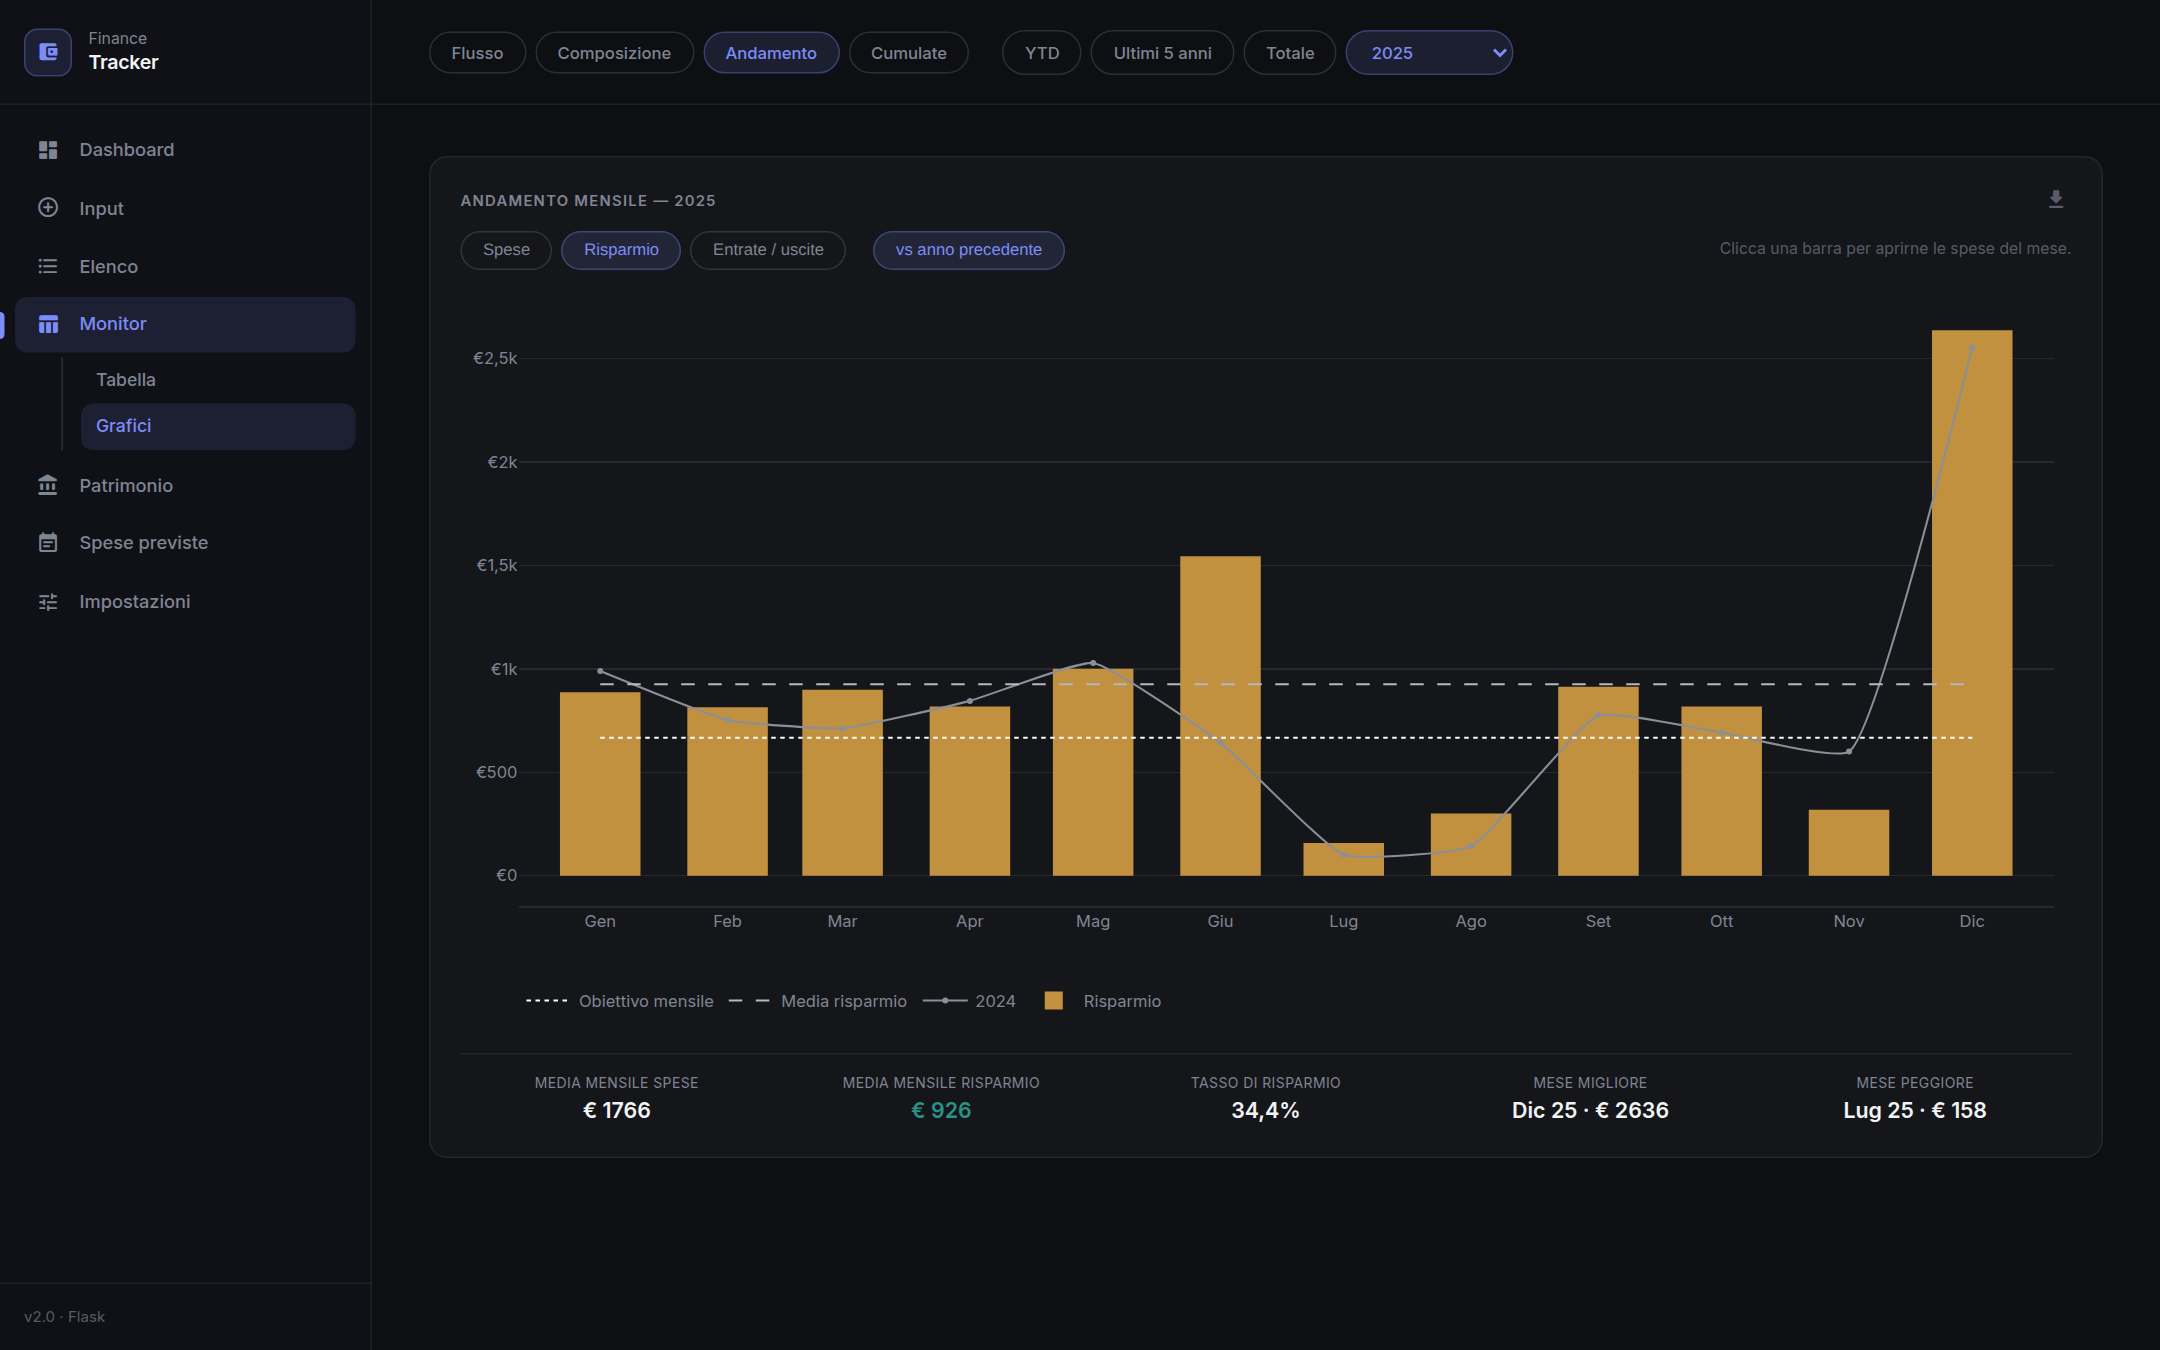
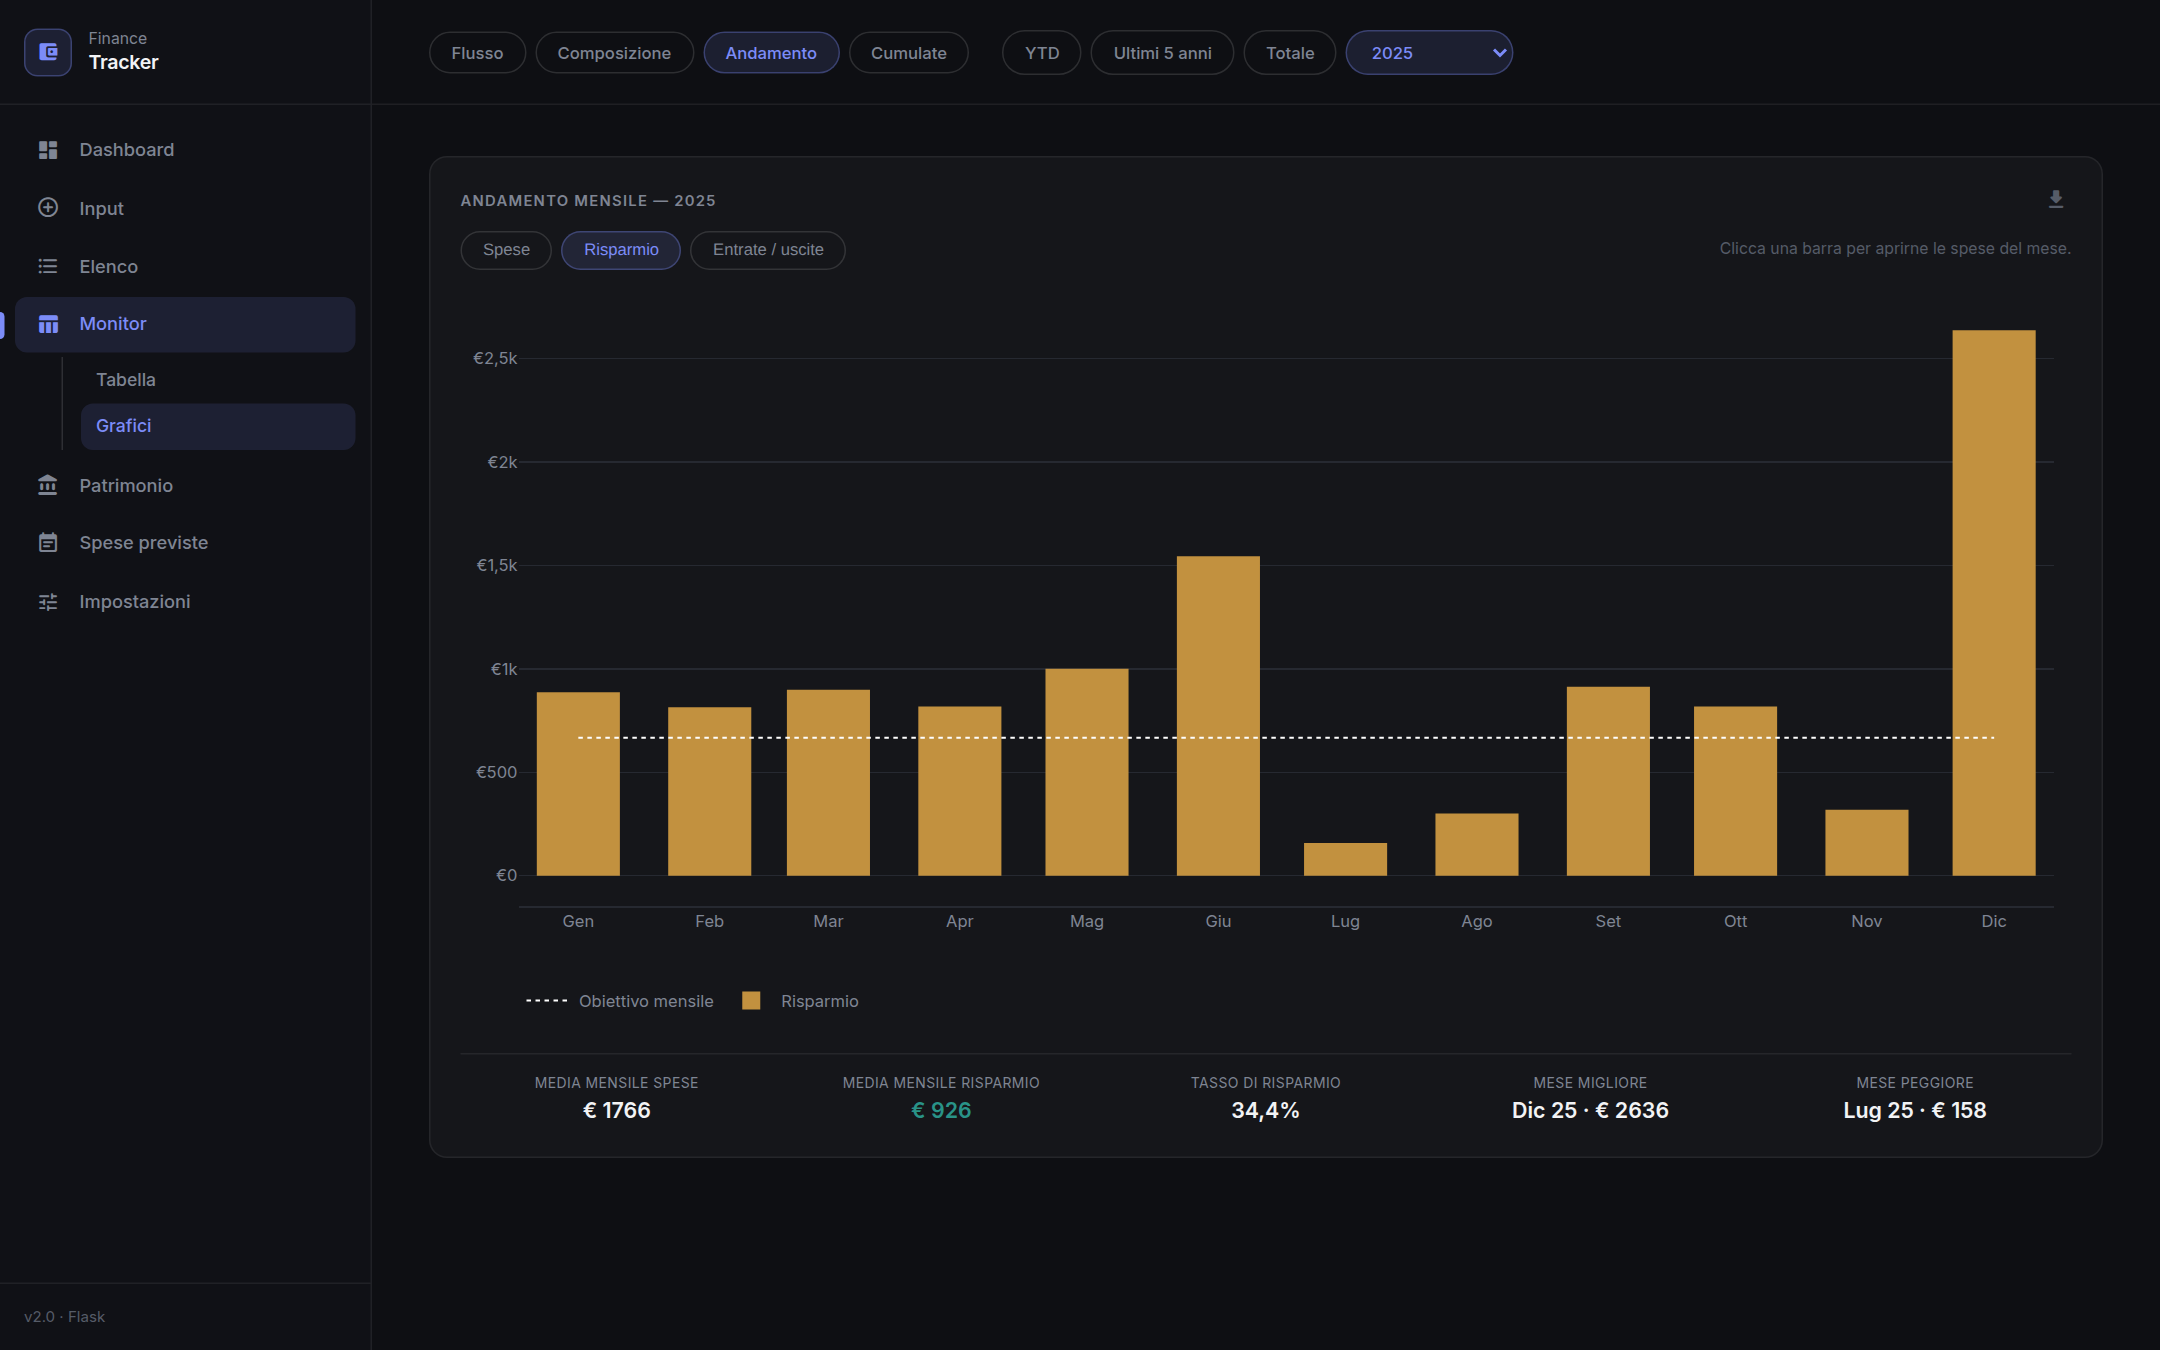
Grafici › Andamento: tolti confronto con l'anno precedente e linea della media; in Entrate/uscite niente linea del risparmio

diff --git a/templates/grafici.html b/templates/grafici.html
@@ -60,7 +60,6 @@
             <button type="button" class="period-btn" data-v="risparmio">Risparmio</button>
             <button type="button" class="period-btn" data-v="flusso">Entrate / uscite</button>
         </div>
-        <button type="button" class="period-btn cmp-btn" id="cmp-an" title="Sovrappone l'anno precedente (solo Spese e Risparmio)">vs anno precedente</button>
         <span class="g-hint" style="margin:0 0 0 auto">Clicca una barra per aprirne le spese del mese.</span>
     </div>
     <div id="chart-g-an" class="g-chart"></div>
@@ -116,7 +115,7 @@ const URL_CUM = '{{ url_for("grafici.cumulata") }}', URL_ELENCO = '{{ url_for("e
 
 // ── Stato: vive nell'indirizzo (condivisibile, funziona il "indietro") e si ricorda l'ultima vista ──
 const S = { vista: 'flusso', periodo: 'ytd', lastYear: 'ytd', lastRange: 'all',
-            an: 'spese', cmp: false, cu: { view: 'tot', cat: '', cmp: '' } };
+            an: 'spese', cu: { view: 'tot', cat: '', cmp: '' } };
 const yearOf = p => p === 'ytd' ? CUR : (/^\d{4}$/.test(p) ? +p : null);
 const validPeriodo = p => p === 'ytd' || p === '5y' || p === 'all' || (yearOf(p) !== null && YEARS.includes(+p));
 const normPeriodo = p => (validPeriodo(p) ? (p === String(CUR) ? 'ytd' : p) : 'ytd');
@@ -133,7 +132,6 @@ function readUrl() {
         S.periodo = normPeriodo(qs.get('periodo') || 'ytd');
     }
     S.an = ['risparmio', 'flusso'].includes(qs.get('sub')) ? qs.get('sub') : 'spese';
-    S.cmp = qs.get('conf') === '1';
     S.cu = { view: ['ess', 'ext', 'sav'].includes(qs.get('ct')) ? qs.get('ct') : 'tot', cat: qs.get('cat') || '', cmp: qs.get('cc') || '' };
     normalize();
 }
@@ -145,7 +143,6 @@ function normalize() {
 function writeUrl(push) {
     const p = new URLSearchParams({ vista: S.vista, periodo: S.periodo });
     if (S.vista === 'andamento' && S.an !== 'spese') p.set('sub', S.an);
-    if (S.vista === 'andamento' && S.cmp) p.set('conf', '1');
     if (S.vista === 'cumulate') {
         if (S.cu.view !== 'tot') p.set('ct', S.cu.view);
         if (S.cu.cat) p.set('cat', S.cu.cat);
@@ -174,7 +171,6 @@ function syncControls() {
     document.querySelectorAll('.gpanel').forEach(p => { p.style.display = p.id === 'gp-' + S.vista ? '' : 'none'; });
     setActive('an-sub', S.an); setActive('cu-sub', S.cu.cat ? '' : S.cu.view);
     $('cu-cat').value = S.cu.cat;
-    $('cmp-an').classList.toggle('active', S.cmp);
     fillCuCmp();
 }
 function fillCuCmp() {
@@ -194,7 +190,6 @@ function step(d) {
 document.querySelectorAll('#g-range [data-range]').forEach(b => b.addEventListener('click', () => setState({ periodo: b.dataset.range })));
 document.querySelectorAll('.gv').forEach(b => b.addEventListener('click', () => setState({ vista: b.dataset.v })));
 document.querySelectorAll('#an-sub .period-btn').forEach(b => b.addEventListener('click', () => setState({ an: b.dataset.v }, false)));
-$('cmp-an').addEventListener('click', () => setState({ cmp: !S.cmp }, false));
 document.querySelectorAll('#cu-sub .period-btn').forEach(b => b.addEventListener('click', () => setState({ cu: { ...S.cu, view: b.dataset.v, cat: '' } }, false)));
 $('cu-cat').addEventListener('change', e => setState({ cu: { ...S.cu, cat: e.target.value } }, false));
 $('cu-cmp').addEventListener('change', e => setState({ cu: { ...S.cu, cmp: e.target.value } }, false));
@@ -275,42 +270,31 @@ RENDER.composizione = async stale => {
 
 // ── Andamento mensile (con confronto e obiettivo per anno) ───────────────────
 RENDER.andamento = async stale => {
-    const d = await load('andamento', { conf: S.cmp ? '1' : '0' }); if (stale()) return;
-    $('cmp-an').disabled = !d.can_compare || S.an === 'flusso';
-    $('cmp-an').title = !d.can_compare ? 'Il confronto vale per un anno singolo' : (S.an === 'flusso' ? 'Il confronto vale per Spese e Risparmio' : "Sovrappone l'anno precedente");
+    const d = await load('andamento'); if (stale()) return;
     $('t-andamento').textContent = 'Andamento mensile — ' + d.label;
     const n = d.labels.length, x = d.labels.map(l => l + '-01');
     const out = d.income.map((_, i) => d.essential[i] + d.extra[i]), sav = d.income.map((v, i) => v - out[i]);
     const rate = d.income.map((v, i) => v > 0 ? sav[i] / v * 100 : null);
     const active = x.map((_, i) => d.income[i] > 0 || out[i] > 0);
     const sum = a => a.reduce((s, v, i) => s + (active[i] ? v : 0), 0), cnt = active.filter(Boolean).length || 1, mean = a => sum(a) / cnt;
-    const flat = (name, v, dash, color) => ({ type: 'scatter', mode: 'lines', name, x, y: x.map(() => v), line: { color, width: 1.4, dash },
-                                              hovertemplate: '€ %{y:.0f}<extra>' + name + '</extra>' });
     const rateTrace = { type: 'scatter', mode: 'lines', name: 'Tasso di risparmio', x, y: x.map(() => 0), line: { width: 0 }, showlegend: false,
                         customdata: rate.map(r => r == null ? '—' : r.toFixed(1).replace('.', ',') + '%'), hovertemplate: '%{customdata}<extra>Tasso di risparmio</extra>' };
-    // Anno precedente: stesso mese dell'anno prima, in grigio, allineato ai mesi mostrati
-    const prevSeries = f => d.prev && x.map((_, i) => f(+d.labels[i].slice(5) - 1));
-    const prevTrace = ys => d.prev ? { type: 'scatter', mode: 'lines+markers', name: String(d.prev.year), x, y: ys, marker: { size: 4 },
-                                       line: { color: '#8a8f99', width: 1.4, shape: 'spline', smoothing: 0.4 }, hovertemplate: '€ %{y:.0f}<extra>' + d.prev.year + '</extra>' } : null;
     let traces, barmode = 'stack';
     if (S.an === 'spese') {
         traces = [{ type: 'bar', name: 'Necessità', x, y: d.essential, marker: { color: _P.essential }, hovertemplate: '€ %{y:.0f}<extra>Necessità</extra>' },
                   { type: 'bar', name: 'Extra', x, y: d.extra, marker: { color: _P.extra }, hovertemplate: '€ %{y:.0f}<extra>Extra</extra>' },
-                  flat('Media spese', mean(out), 'dash', '#b4b8c2'), rateTrace];
-        const pt = prevTrace(prevSeries(i => d.prev.essential[i] + d.prev.extra[i])); if (pt) traces.splice(2, 0, pt);
+                  rateTrace];
     } else if (S.an === 'risparmio') {
         // Obiettivo mensile: un valore per ANNO (i budget cambiano), a gradini; vuoto dove non c'è budget
         const goal = { type: 'scatter', mode: 'lines', name: 'Obiettivo mensile', x, y: d.goal.map(g => g > 0 ? g : null),
                        line: { color: '#ffffff', width: 1.4, dash: 'dot', shape: 'hv' }, connectgaps: false, hovertemplate: '€ %{y:.0f}<extra>Obiettivo mensile</extra>' };
         traces = [{ type: 'bar', name: 'Risparmio', x, y: sav, marker: { color: sav.map(v => v >= 0 ? _P.savings : _P.expense) }, hovertemplate: '€ %{y:.0f}<extra>Risparmio</extra>' },
-                  flat('Media risparmio', mean(sav), 'dash', '#b4b8c2'), goal, rateTrace];
-        const pt = prevTrace(prevSeries(i => d.prev.income[i] - d.prev.essential[i] - d.prev.extra[i])); if (pt) traces.splice(1, 0, pt);
+                  goal, rateTrace];
     } else {
         barmode = 'group';
         traces = [{ type: 'bar', name: 'Entrate', x, y: d.income, marker: { color: _P.income }, hovertemplate: '€ %{y:.0f}<extra>Entrate</extra>' },
                   { type: 'bar', name: 'Uscite', x, y: out, marker: { color: _P.expense }, hovertemplate: '€ %{y:.0f}<extra>Uscite</extra>' },
-                  { type: 'scatter', mode: 'lines+markers', name: 'Risparmio', x, y: sav, line: { color: _P.savings, width: 2, shape: 'spline', smoothing: 0.4 },
-                    marker: { size: 5 }, hovertemplate: '€ %{y:.0f}<extra>Risparmio</extra>' }, rateTrace];
+                  rateTrace];
     }
     const long = n > 36, mid = n > 14;
     const gd = await Plotly.react('chart-g-an', traces, {

diff --git a/blueprints/grafici.py b/blueprints/grafici.py
@@ -199,14 +199,7 @@ def dati(view):
                        extra=[round(ext_m.get(m, 0), 2) for m in months],
                        # obiettivo mensile di risparmio dell'ANNO di ciascun mese (i budget cambiano per anno)
                        goal=[round(budget_for(conn, int(m[:4]), 'savings') / 12, 2) for m in months],
-                       can_compare=bool(per['year']), prev=None)
-            if request.args.get('conf') == '1' and per['year']:
-                py = per['year'] - 1
-                pi, pe, px = monthly(f"{py}-01-01", f"{py}-12-31")
-                pm = [f"{py}-{n:02d}" for n in range(1, 13)]
-                out['prev'] = {'year': py, 'income': [round(pi.get(m, 0), 2) for m in pm],
-                               'essential': [round(pe.get(m, 0), 2) for m in pm],
-                               'extra': [round(px.get(m, 0), 2) for m in pm]}
+                       )
 
         # cumulate: i dati arrivano da /grafici/cumulata.json (un anno alla volta)
 

diff --git a/scripts/screenshots.py b/scripts/screenshots.py
@@ -40,7 +40,7 @@ SHOTS = [
     ('charts-composition', '/grafici?vista=composizione&periodo=all', 1440, 820, []),
     ('charts-trend', '/grafici?vista=andamento&periodo=all', 1440, 900, []),
     ('charts-cumulative', '/grafici?vista=cumulate&periodo=ytd', 1440, 900, []),
-    ('charts-trend-compare', '/grafici?vista=andamento&periodo=2025&sub=risparmio&conf=1', 1440, 900, []),
+    ('charts-trend-compare', '/grafici?vista=andamento&periodo=2025&sub=risparmio', 1440, 900, []),
     ('charts-cumulative-category', '/grafici?vista=cumulate&periodo=2025', 1440, 900,
      ["const s = document.getElementById('cu-cat'); s.value = 'Ristoranti'; s.dispatchEvent(new Event('change'));",
       "const c = document.getElementById('cu-cmp'); c.value = '2023'; c.dispatchEvent(new Event('change'));"]),

diff --git a/README.md b/README.md
@@ -109,7 +109,7 @@ Reached from *Monitor › Grafici* in the sidebar and from the expand icon in ea
 | --- | --- | --- |
 | **Flow** | YTD, last 5 years, all, or a single year | Sankey income → savings / spending → essential / extra → categories; click a category to open its expenses |
 | **Composition** | same | The same hierarchy as an interactive sunburst |
-| **Trend** | same | Monthly bars — spending, savings (with the yearly savings target as a step line) or income vs. spending — optional previous-year overlay, averages, savings rate, best / worst month; click a bar to open that month |
+| **Trend** | same | Monthly bars — spending, savings (with the savings target of each year as a step line) or income vs. spending; the savings rate in the hover box, plus average spending and savings, overall savings rate and best / worst month; click a bar to open that month |
 | **Cumulative** | one year (`‹ year ›`) | Total / essential / extra / savings — or **one category** — against **any comparison year** and the dashed target pace of that year |
 
 The period control adapts to the tab: ranges for the first three, a single year for the cumulative one. The
@@ -121,7 +121,7 @@ and the last tab is remembered. Each chart has a PNG download button.
 | --- | --- |
 | ![Flow](docs/screenshots/charts-flow.png) | ![Composition](docs/screenshots/charts-composition.png) |
 
-| Trend with previous year | Cumulative, one category vs. 2023 |
+| Trend (savings) | Cumulative, one category vs. 2023 |
 | --- | --- |
 | ![Trend](docs/screenshots/charts-trend-compare.png) | ![Cumulative by category](docs/screenshots/charts-cumulative-category.png) |
 
